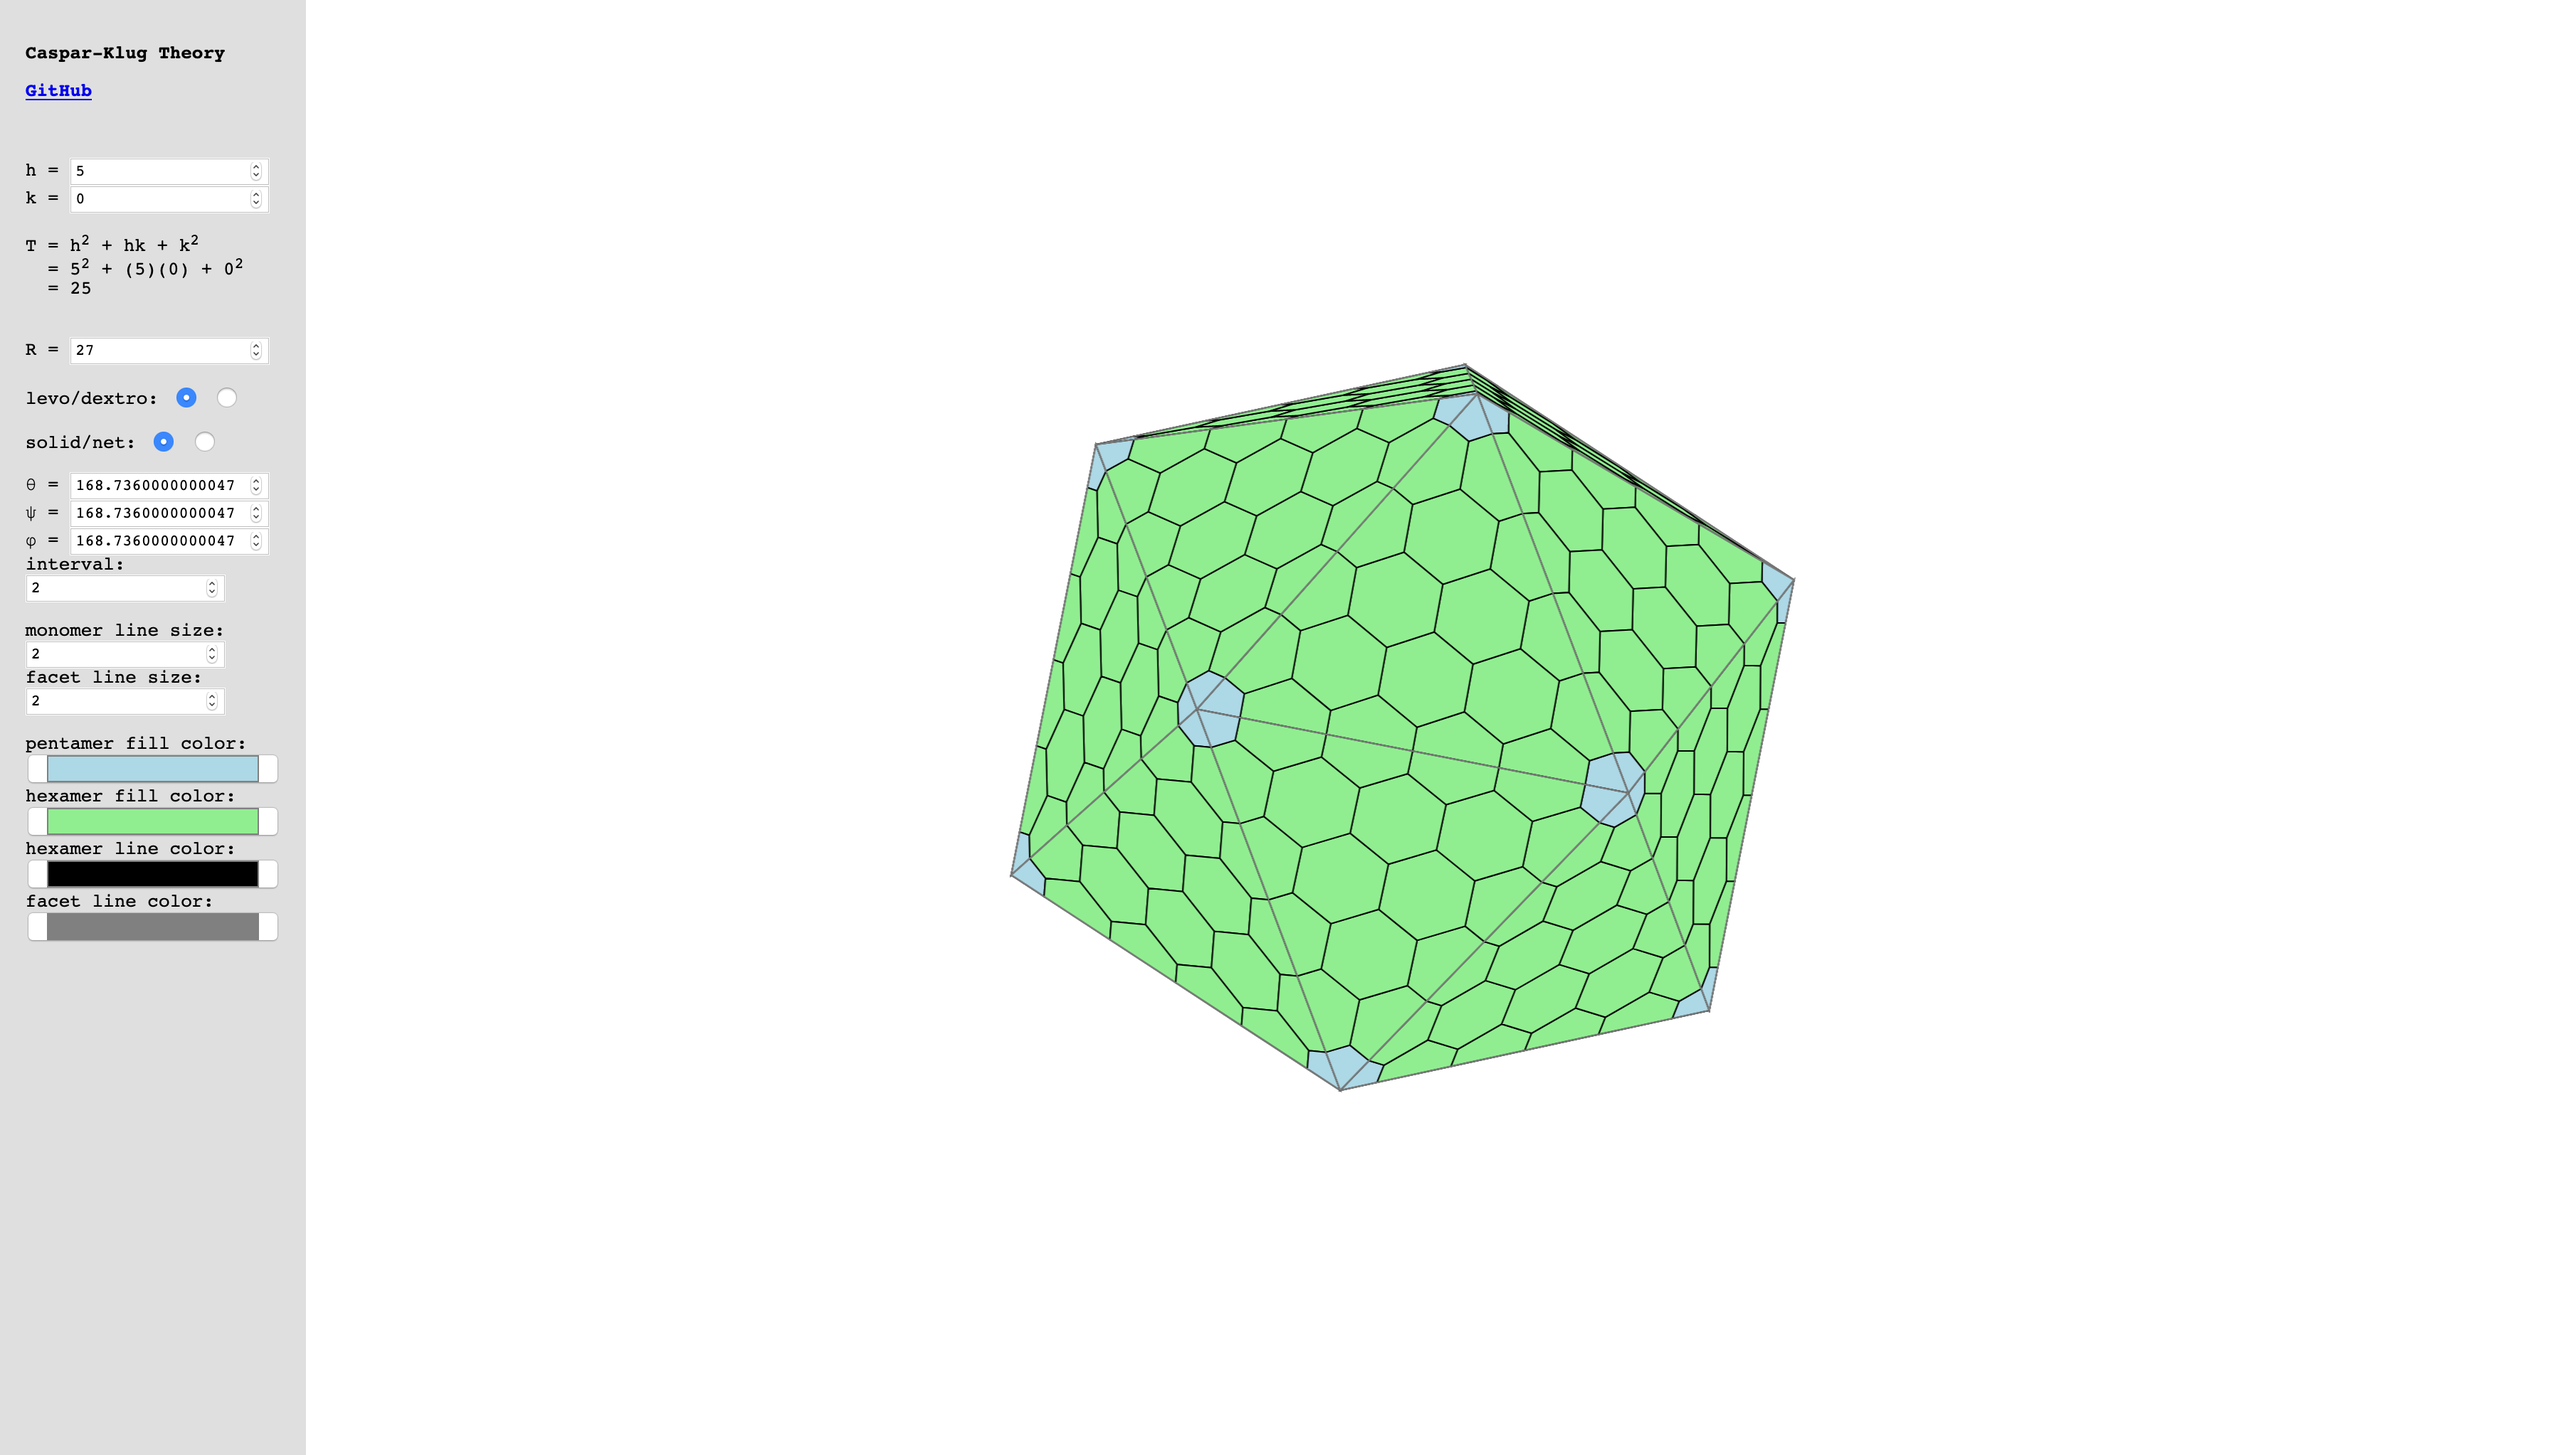
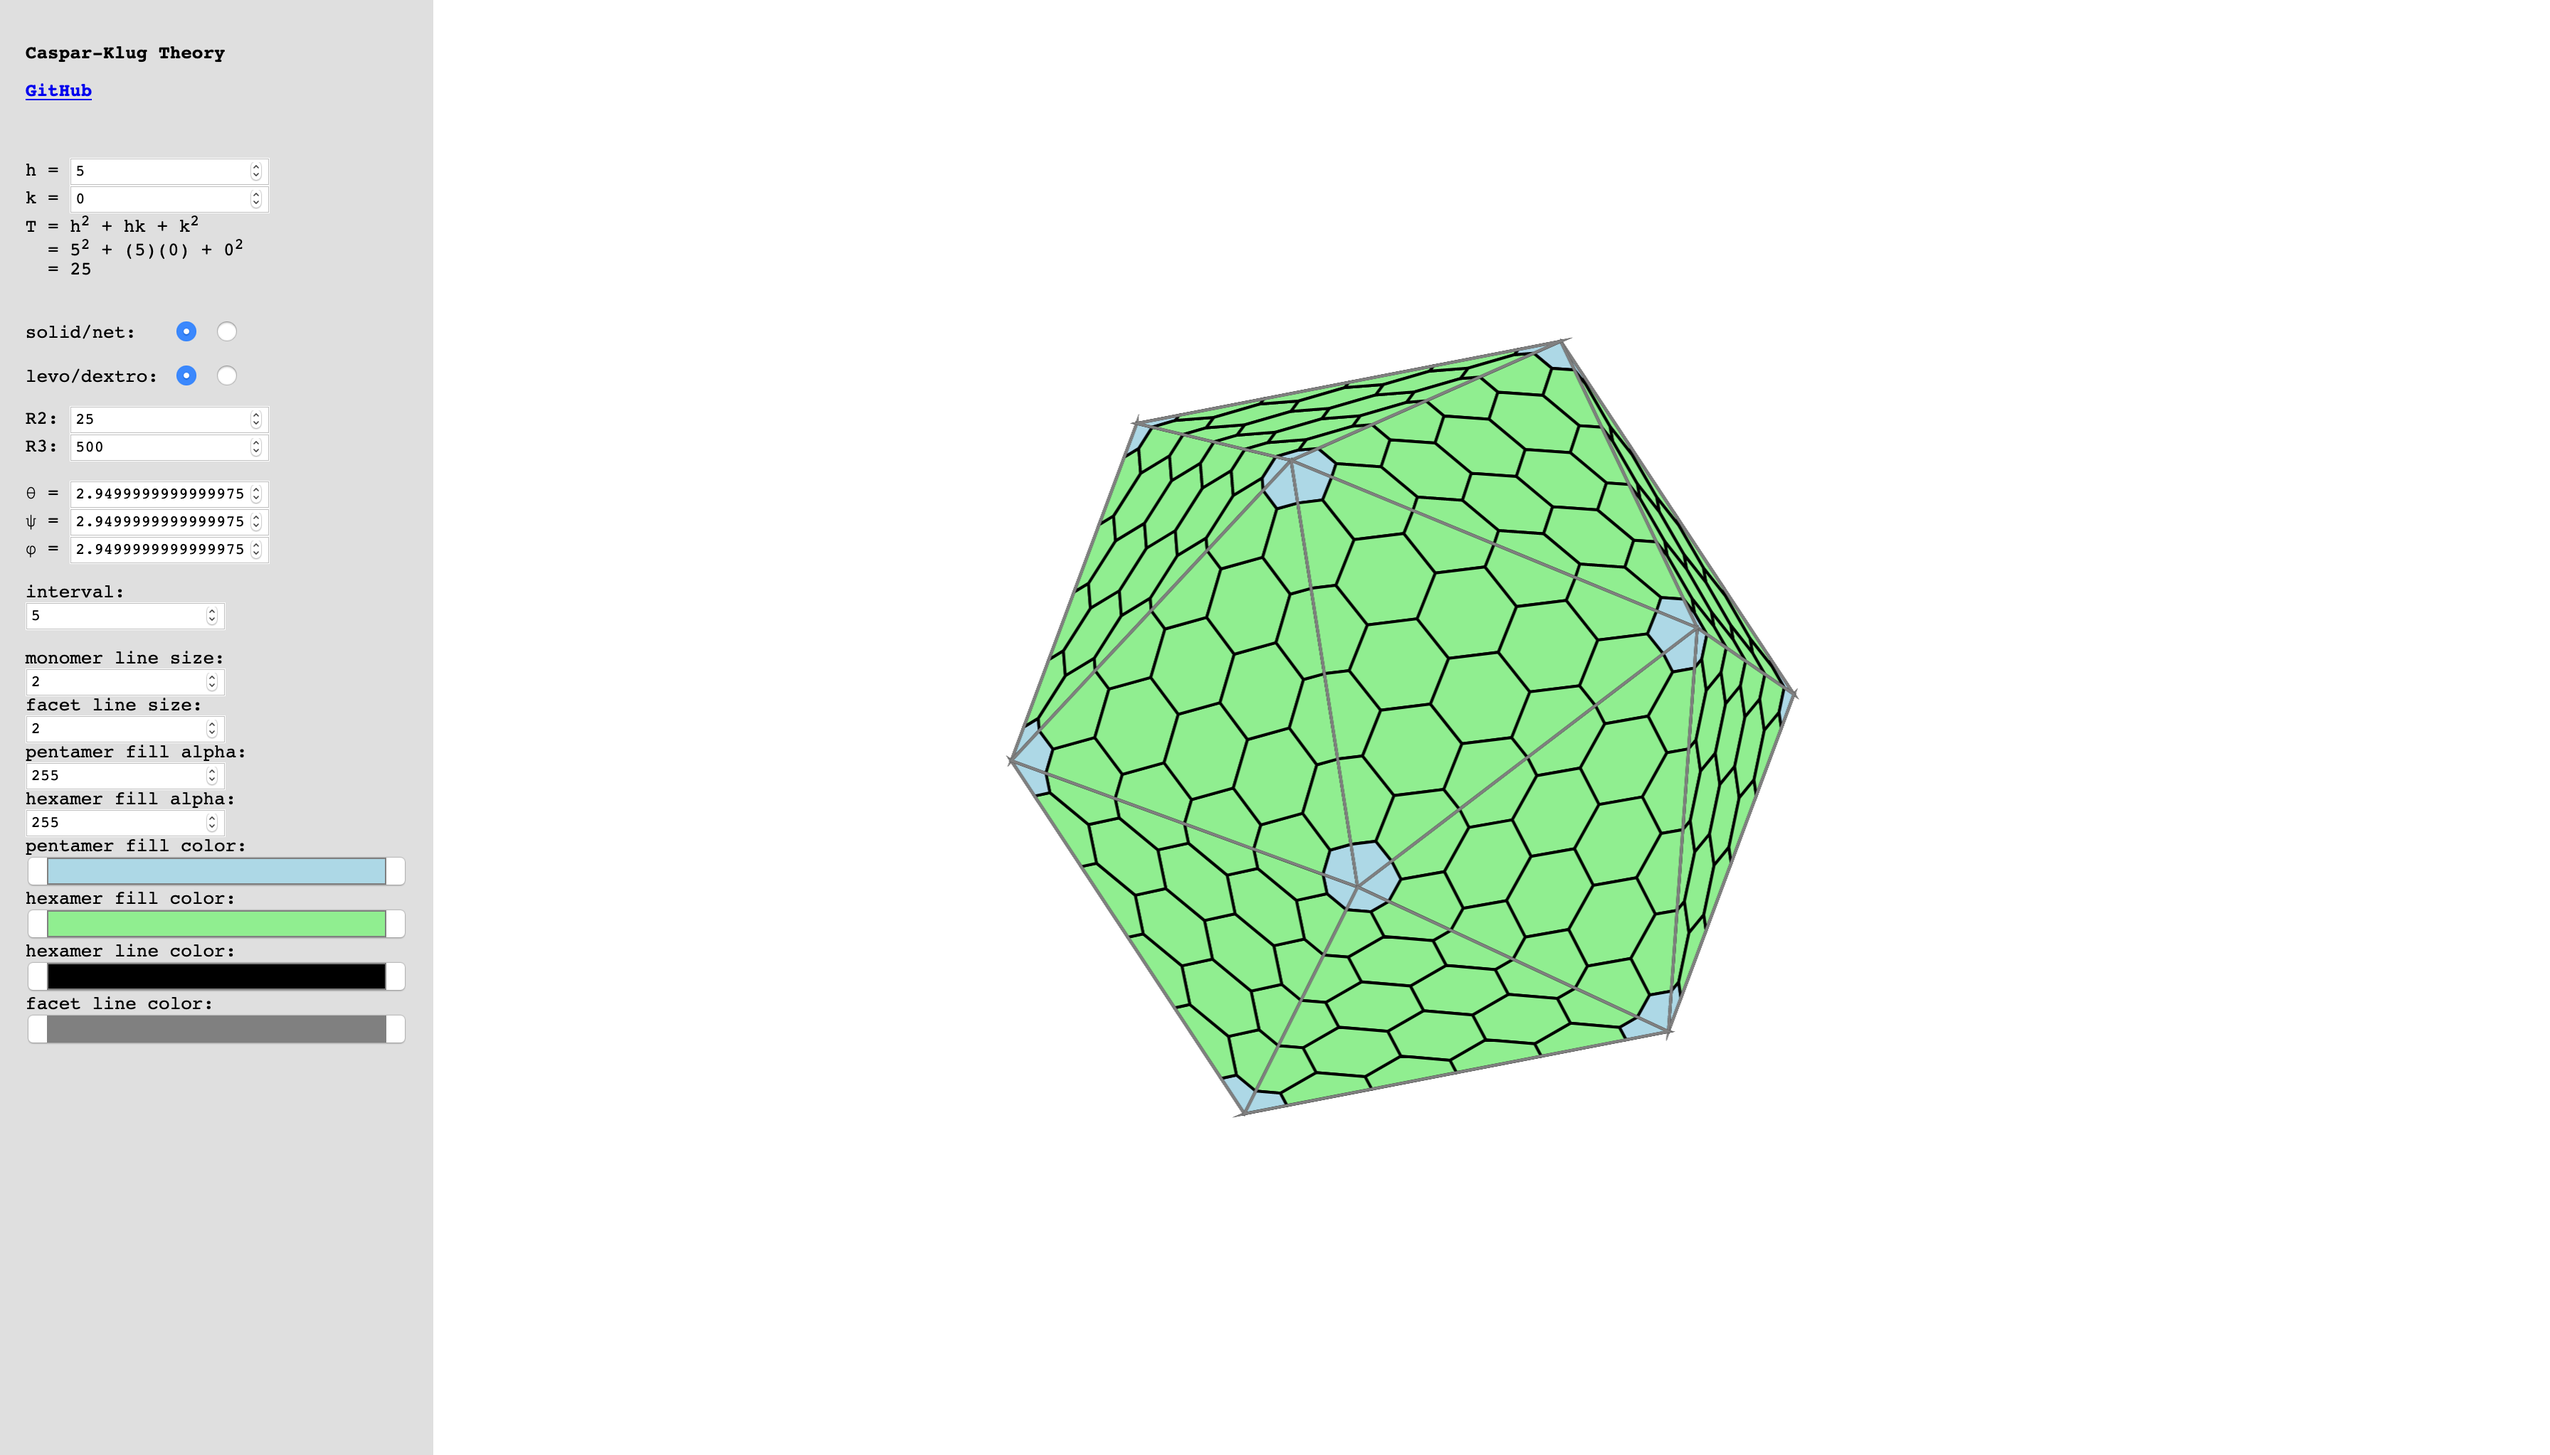
additional styling controls

Changed region(s): [[0.0, 0.0, 0.1875, 1.0], [0.375, 0.2155, 0.7188, 0.7698]]

diff --git a/capsid.html b/capsid.html
@@ -20,7 +20,7 @@
 
         .left {
             left: 0;
-            width: 10%;
+            width: 15%;
             background-color: #80808040;
             padding: 1%;
         }
@@ -53,42 +53,62 @@
             <p><a href="https://github.com/dnanto/capsid">GitHub</a></p>
         </strong>
         <br><br>
-        <label for="h">h&nbsp;=&nbsp;</label><input type="number" name="h" id="h" step="1" value="5" , min="0">
+
+        <label for="h">h&nbsp;=&nbsp;</label><input type="number" name="h" id="h" step="1" value="5" min="0">
         <br>
-        <label for="k">k&nbsp;=&nbsp;</label><input type="number" name="k" id="k" step="1" value="0" , min="0">
-        <br><br>
+        <label for="k">k&nbsp;=&nbsp;</label><input type="number" name="k" id="k" step="1" value="0" min="0">
         <div>T&nbsp;=&nbsp;h<sup>2</sup>&nbsp;+&nbsp;hk&nbsp;+&nbsp;k<sup>2</sup></div>
         <div id="tnumber"></div>
         <br><br>
-        <label for="R">R&nbsp;=&nbsp;</label><input type="number" name="R" id="R" step="1" value="25" , min="0">
-        <br><br>
-        <label for="rotation">levo/dextro: </label>
-        <input type="radio" name="rotation" id="levo" checked>
-        <input type="radio" name="rotation" id="dextro">
-        <br><br>
-        <label for="topology">solid/net: </label>
+
+        <label for="topology">solid/net:&nbsp;&nbsp;</label>
         <input type="radio" name="topology" id="solid" checked>
         <input type="radio" name="topology" id="net">
         <br><br>
-        <label for="θ">θ&nbsp;=&nbsp;</label><input type="number" name="θ" id="θ" step="any" value="0" min="0">
-        <label for="ψ">ψ&nbsp;=&nbsp;</label><input type="number" name="ψ" id="ψ" step="any" value="0" min="0">
-        <label for="φ">φ&nbsp;=&nbsp;</label><input type="number" name="φ" id="φ" step="any" value="0" min="0">
-        <br>
-        <label for="interval">interval: </label><input type="number" id="interval" step="any" value="5" min="0">
+
+        <label for="rotation">levo/dextro:</label>
+        <input type="radio" name="rotation" id="levo" checked>
+        <input type="radio" name="rotation" id="dextro">
         <br><br>
-        <label for="hexline">monomer line size: </label>
+
+        <label for="R">R2:</label>
+        <input type="number" name="R2" id="R2" step="1" value="25" min="0">
+        <br>
+        <label for="R">R3:</label>
+        <input type="number" name="R3" id="R3" step="1" value="500" min="0">
+        <br><br>
+
+        <label for="θ">θ&nbsp;=&nbsp;</label><input type="number" name="θ" id="θ" step="any" value="0" min="0">
+        <br>
+        <label for="ψ">ψ&nbsp;=&nbsp;</label><input type="number" name="ψ" id="ψ" step="any" value="0" min="0">
+        <br>
+        <label for="φ">φ&nbsp;=&nbsp;</label><input type="number" name="φ" id="φ" step="any" value="0" min="0">
+        <br><br>
+
+        <label for="interval">interval:</label>
+        <br>
+        <input type="number" id="interval" value="5" min="0">
+        <br><br>
+
+        <label for="hexline">monomer line size:</label>
         <input type="number" name="hexline" id="hexline" step="1" value="2" min="0">
         <br>
-        <label for="fctline">facet line size: </label>
+        <label for="fctline">facet line size:</label>
         <input type="number" name="fctline" id="fctline" step="1" value="2" min="0">
-        <br><br>
-        <label for="penfill">pentamer fill color: </label>
+        <br>
+        <label for="penalph">pentamer fill alpha:</label>
+        <input type="number" name="penalph" id="penalph" step="1" value="255" min="0" max="255">
+        <br>
+        <label for="hexalph">hexamer fill alpha:</label>
+        <input type="number" name="hexalph" id="hexalph" step="1" value="255" min="0" max="255">
+        <br>
+        <label for="penfill">pentamer fill color:</label>
         <input type="color" id="penfill" name="penfill" value="#ADD8E6">
-        <label for="hexfill">hexamer fill color: </label>
+        <label for="hexfill">hexamer fill color:</label>
         <input type="color" id="hexfill" name="hexfill" value="#90EE90">
-        <label for="hexoutl">hexamer line color: </label>
+        <label for="hexoutl">hexamer line color:</label>
         <input type="color" id="hexoutl" name="hexoutl" value="#000000">
-        <label for="fctoutl">facet line color: </label>
+        <label for="fctoutl">facet line color:</label>
         <input type="color" id="fctoutl" name="fctoutl" value="#808080">
     </div>
     <div class="split right">

diff --git a/js/capsid.js b/js/capsid.js
@@ -1,6 +1,5 @@
 let opt;
 let camera;
-let icosahedron;
 
 class Matrix {
     static mul(A, B) {
@@ -147,7 +146,7 @@ function tNumber() {
 }
 
 function drawFace(angle) {
-    const [h, k, R] = [opt.h, opt.k, opt.R];
+    const [h, k, R] = [opt.h, opt.k, opt.R2];
     const n = h + k + 1;
 
     const p = Array.from(walk(0, k, h, k, R));
@@ -158,14 +157,16 @@ function drawFace(angle) {
     for (var e of grid(n, n, R)) {
         var hex = f.intersect(e);
         hex.strokeColor = opt.hexoutl;
+        hex.strokeWidth = opt.hexline;
         hex.fillColor = (
             (hex.contains(p[0]) || hex.contains(p[1]) || hex.contains(p[2])) ?
-                opt.penfill :
-                opt.hexfill
+                (opt.penfill + Number(opt.penalph).toString(16).padStart(2, "0")) :
+                (opt.hexfill + Number(opt.hexalph).toString(16).padStart(2, "0"))
         );
         g.push(hex);
     }
     f.strokeColor = opt.fctoutl;
+    f.strokeWidth = opt.fctline;
     g.push(f);
 
     g = new Group(g);
@@ -201,7 +202,8 @@ function drawNet() {
 }
 
 function drawSolid() {
-    var g = new Group(icosahedron.faces2D(camera.P).map(e => new Path(e)));
+    var ico = new RegularIcosahedron(opt.R3);
+    var g = new Group(ico.faces2D(camera.P).map(e => new Path(e)));
     g.position = view.center;
 
     var f = drawFace(30);
@@ -235,14 +237,17 @@ function redraw() {
     opt = {
         h: parseInt(document.getElementById("h").value),
         k: parseInt(document.getElementById("k").value),
-        R: parseInt(document.getElementById("R").value),
         solid: document.getElementById("solid").checked,
         net: document.getElementById("net").checked,
+        levo: document.getElementById("levo").checked,
+        dextro: document.getElementById("dextro").checked,
+        R2: parseInt(document.getElementById("R2").value),
+        R3: parseInt(document.getElementById("R3").value),
         θ: document.getElementById("θ").value,
         ψ: document.getElementById("ψ").value,
         φ: document.getElementById("φ").value,
-        levo: document.getElementById("levo").checked,
-        dextro: document.getElementById("dextro").checked,
+        penalph: document.getElementById("penalph").value,
+        hexalph: document.getElementById("hexalph").value,
         penfill: document.getElementById("penfill").value,
         hexfill: document.getElementById("hexfill").value,
         hexoutl: document.getElementById("hexoutl").value,
@@ -264,7 +269,6 @@ paper.install(window);
 window.onload = function () {
     paper.setup("canvas");
     camera = new Camera();
-    icosahedron = new RegularIcosahedron(500);
     redraw();
     Object.keys(opt).forEach(e =>
         document.getElementById(e).addEventListener("change", redraw)
